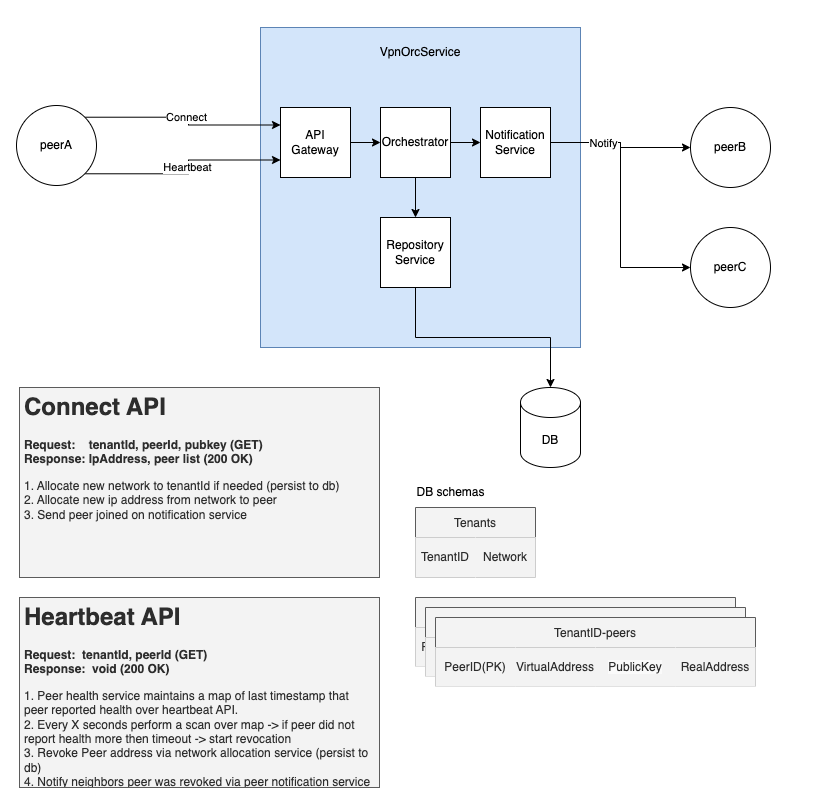
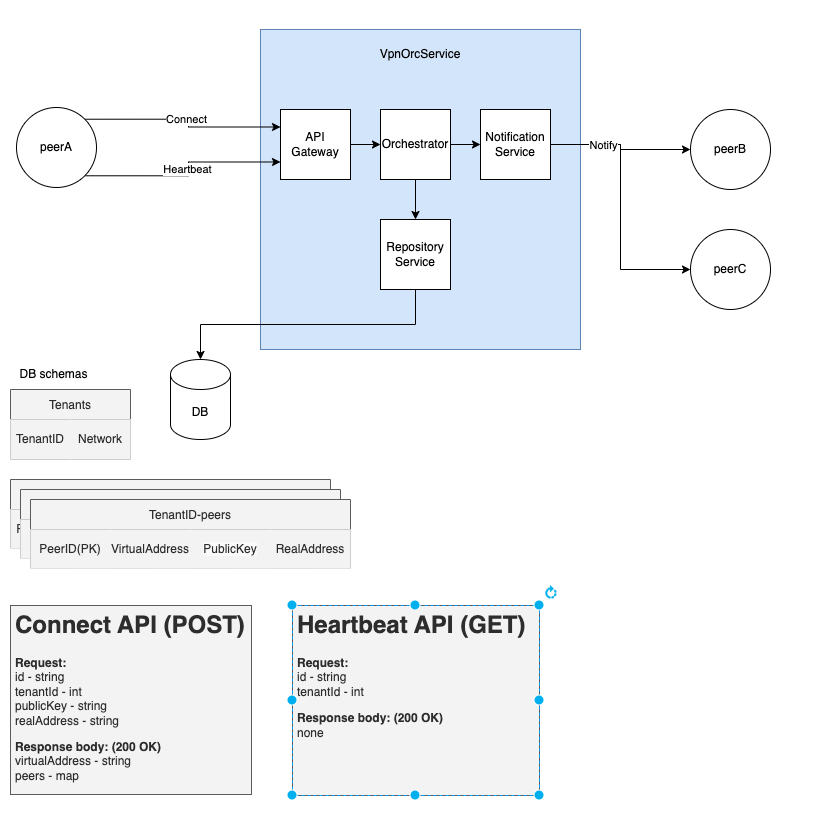
readme work

diff --git a/network/orchestrator.go b/network/orchestrator.go
@@ -9,9 +9,6 @@ import (
 	"vpn-orc/persistence"
 )
 
-// OnboardPeer todo: flow of this method is big - need to move some logic towards the controller
-// OffboardPeer todo: this flow can be improved by adding simple (exists) query to the database
-
 type OrchestratorService struct {
 	repo                  persistence.RepositoryInterface
 	notifier              NotificationInterface
@@ -39,7 +36,7 @@ func NewOrchestratorService(repo persistence.RepositoryInterface, notifier Notif
 	}
 
 	// create address pools
-	// todo: optional - load from database
+	// note: in production scenario we would load the network pools state from the database
 	for _, tenant := range tenants {
 		addressPool, _ := NewAddressPool(tenant.Network)
 		if err != nil {
@@ -48,11 +45,11 @@ func NewOrchestratorService(repo persistence.RepositoryInterface, notifier Notif
 		service.tenantIdToAddressPool[tenant.Id] = addressPool
 	}
 
-	// schedule tasks
+	// schedule scan for peers to remove every minute
 	c := cron.New()
-	err = c.AddFunc("* * * * *", service.checkPeersToRemove)
+	err = c.AddFunc("0 * * * * *", service.checkPeersToRemove)
 	if err != nil {
-		log.Fatalf("Failed to schedule c job %s", err)
+		log.Fatalf("failed to schedule cron job %s", err)
 	}
 	c.Start()
 	return service
@@ -93,6 +90,7 @@ func (o *OrchestratorService) OnboardPeer(tenantId int, peerId string, publicKey
 	}
 
 	// Update in health service & notify
+	// Note: Notifications are done synchronously - Given more time we should implement an event system between the orchestrator & notifier
 	o.UpdatePeer(tenantId, peerId)
 	o.notifier.NotifyConnected(peerDTO, peers)
 
@@ -149,6 +147,7 @@ func (o *OrchestratorService) OffboardPeer(tenantId int, peerId string) error {
 }
 
 func (o *OrchestratorService) UpdatePeer(tenantId int, peerId string) {
+	// if peer doesn't exist we should send out a 401 so it can reconnect
 	now := time.Now().UnixMilli()
 	if o.tenantIdToPeerIdMap[tenantId] == nil {
 		o.tenantIdToPeerIdMap[tenantId] = make(map[string]int64)
@@ -159,14 +158,13 @@ func (o *OrchestratorService) UpdatePeer(tenantId int, peerId string) {
 }
 
 func (o *OrchestratorService) checkPeersToRemove() {
+	log.Println("ping")
 	now := time.Now()
 	peersToRemove := make(map[int]string)
 
 	for tenant, peerToTimestamp := range o.tenantIdToPeerIdMap {
 		for peerId, timestamp := range peerToTimestamp {
 			delta := now.UnixMilli() - timestamp
-
-			// todo: floating number -> change it
 			if delta > 10000 {
 				peersToRemove[tenant] = peerId
 			}

diff --git a/network/apiGateway.go b/network/apiGateway.go
@@ -36,7 +36,6 @@ func (a *ApiGateway) registerPeer(w http.ResponseWriter, request *http.Request) 
 		return
 	}
 
-	// todo: theres a better way to do this
 	if o.TenantId == 0 || o.PublicKey == "" || o.Id == "" || o.Addr == "" {
 		http.Error(w, "Invalid / Empty fields in request", http.StatusBadRequest)
 		return
@@ -56,13 +55,27 @@ func (a *ApiGateway) registerPeer(w http.ResponseWriter, request *http.Request) 
 	}
 }
 
-func (a *ApiGateway) heartbeat(w http.ResponseWriter, r *http.Request) {
+func (a *ApiGateway) heartbeat(w http.ResponseWriter, request *http.Request) {
 	w.Header().Set("Content-Type", "application/json")
-	// run orchestrator UpdatePeer
+
+	var h persistence.HeartbeatRequest
+	dec := json.NewDecoder(request.Body)
+	dec.DisallowUnknownFields()
+
+	err := dec.Decode(&h)
+	if err != nil {
+		http.Error(w, err.Error(), http.StatusBadRequest)
+		return
+	}
+
+	if h.TenantId == 0 || h.Id == "" {
+		http.Error(w, "Invalid / Empty fields in request", http.StatusBadRequest)
+		return
+	}
+	a.orchestrator.UpdatePeer(h.TenantId, h.Id)
 }
 
-func status(w http.ResponseWriter, r *http.Request) {
-	w.Header().Set("Content-Type", "application/json")
+func status(w http.ResponseWriter, request *http.Request) {
 	fmt.Fprintf(w, "application is running.")
 }
 

diff --git a/persistence/dto.go b/persistence/dto.go
@@ -23,3 +23,8 @@ type OnboardingRequest struct {
 	PublicKey string `json:"publicKey"`
 	Addr      string `json:"address"`
 }
+
+type HeartbeatRequest struct {
+	Id       string `json:"id"`
+	TenantId int    `json:"tenantId"`
+}

diff --git a/network/addressPool.go b/network/addressPool.go
@@ -6,6 +6,8 @@ import (
 	"net"
 )
 
+// note: The address pool pre-allocates the entire mask range - given more time we should implement sparse allocation
+
 type AddressPool struct {
 	cidr    *net.IPNet
 	avail   stack.Stack

diff --git a/README.md b/README.md
@@ -1,6 +1,56 @@
 # vpn-orc
-#### A small vpn orchestration service
+<p>A small vpn orchestration service</p>
 <hr/>
 
+## Contents
+1. [Diagram](#diagram)
+2. [Build](#build)
+3. [Request Examples](#request)
+4. [Development Notes](#notes)
+
+<a name="diagram"></a>
+## Diagram
 ![diag](./resources/diag.png)
 
+<a name="build"></a>
+## Build
+<pre>
+1. Clone the repo
+# git clone git@github.com:shneby/vpn-orc.git
+# cd vpn-orc
+
+2. Build the docker image
+# docker build . -t vpn-orc
+
+3. Run the application
+# docker run -p 8080:8080 vpn-orc
+</pre>
+
+The application is now available on localhost:8080
+
+<hr/>
+
+<a name="request"></a>
+## Request Examples
+#### connect
+![conn](./resources/connect.png)
+
+#### heartbeat
+![heart](./resources/heartbeat.png)
+<hr/>
+
+<a name="notes"></a>
+## Notes
+1. The application is written with the assumption that oboarding a tenant is done via
+an external process. The expectation being that the database already has tables that look like:
+
+    ![tenants](./resources/tenants-table.png)
+    ![peers](./resources/peers-table.png)
+
+2. The database is set locally - in real world environment we would naturally use an external database which is scalable.
+3. There is currently coupling between the orchestration & notification components
+given more time I would have suggested a design that incorporates an event bus between them.
+4. The addressPool implementation currently pre-allocates all addresses ahead of time and saves them in a stack.
+this will be a problem in real world system that may want to allocate class A networks.
+In a production system a more sparse implementation should be used.
+<hr/>
